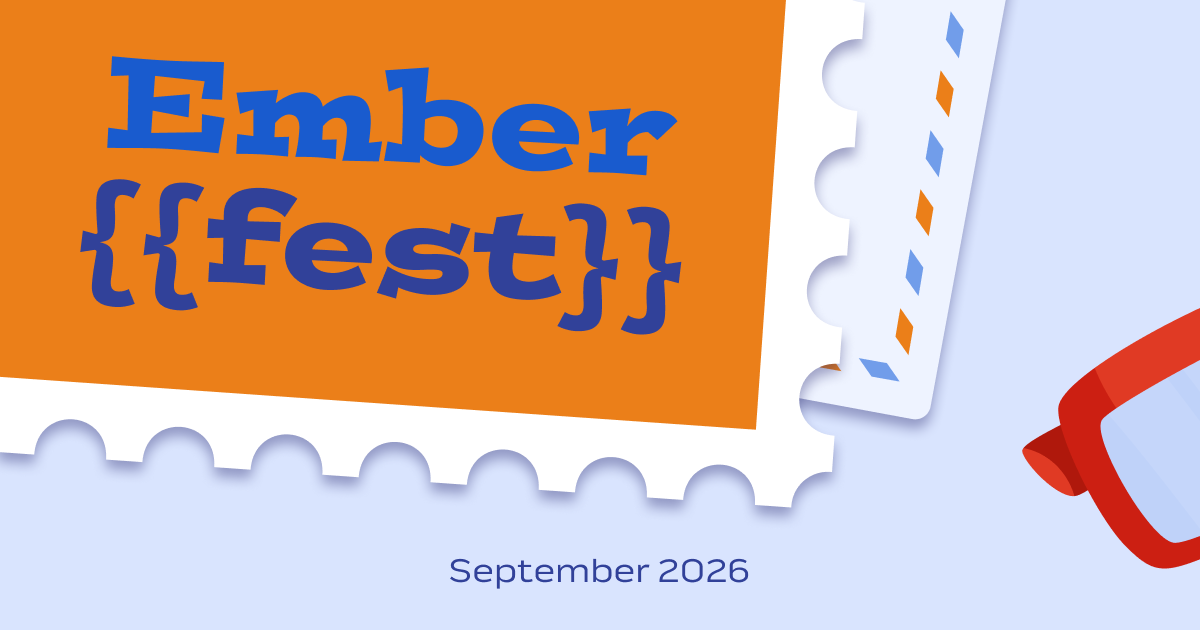
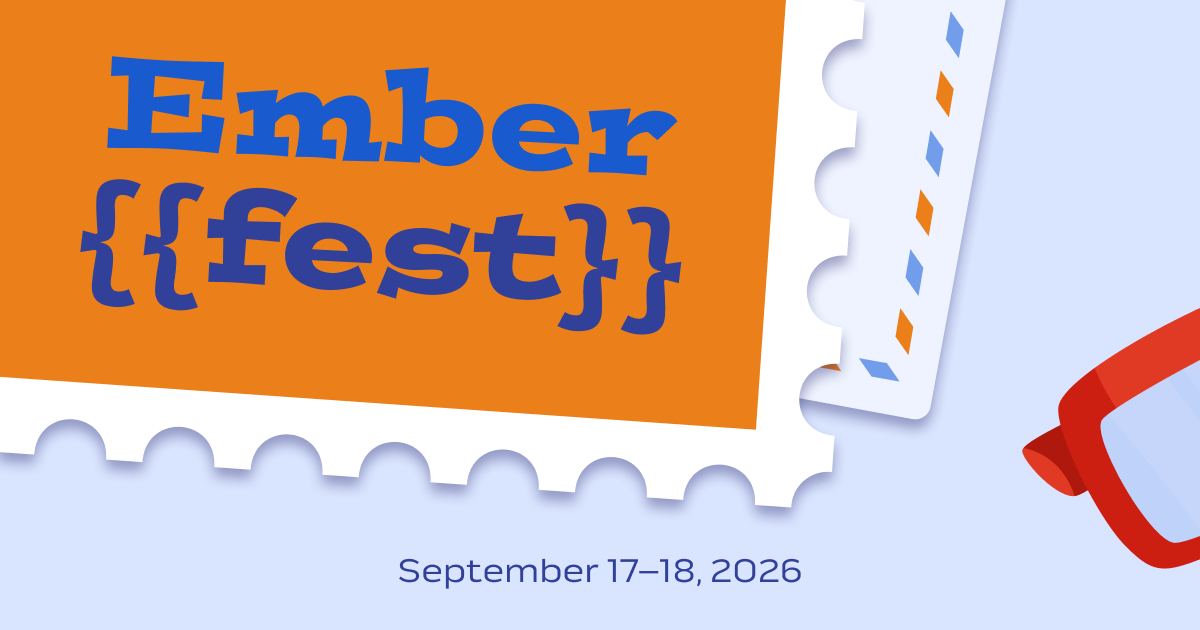
update(dates)

Changed region(s): [[0.3392, 0.8746, 0.6783, 0.9349]]

diff --git a/_includes/hero.html b/_includes/hero.html
@@ -1,7 +1,7 @@
 <section id="hero" class="hero container mt-9">
   <div class="content">
     <div class="date mb-8">
-      <h5 class="">September 2026</h5>
+      <h5 class="">September 17–18, 2026</h5>
     </div>
     <div class="content-layout">
       <div>